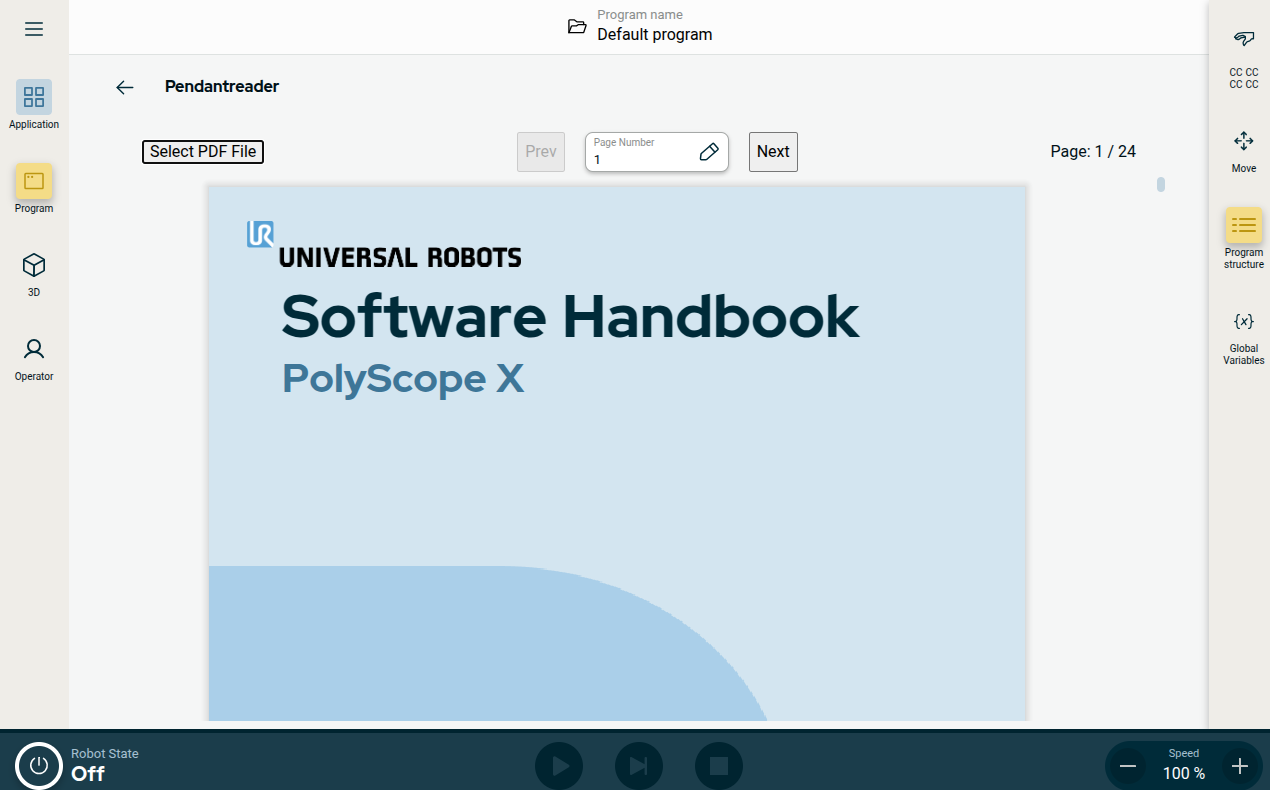
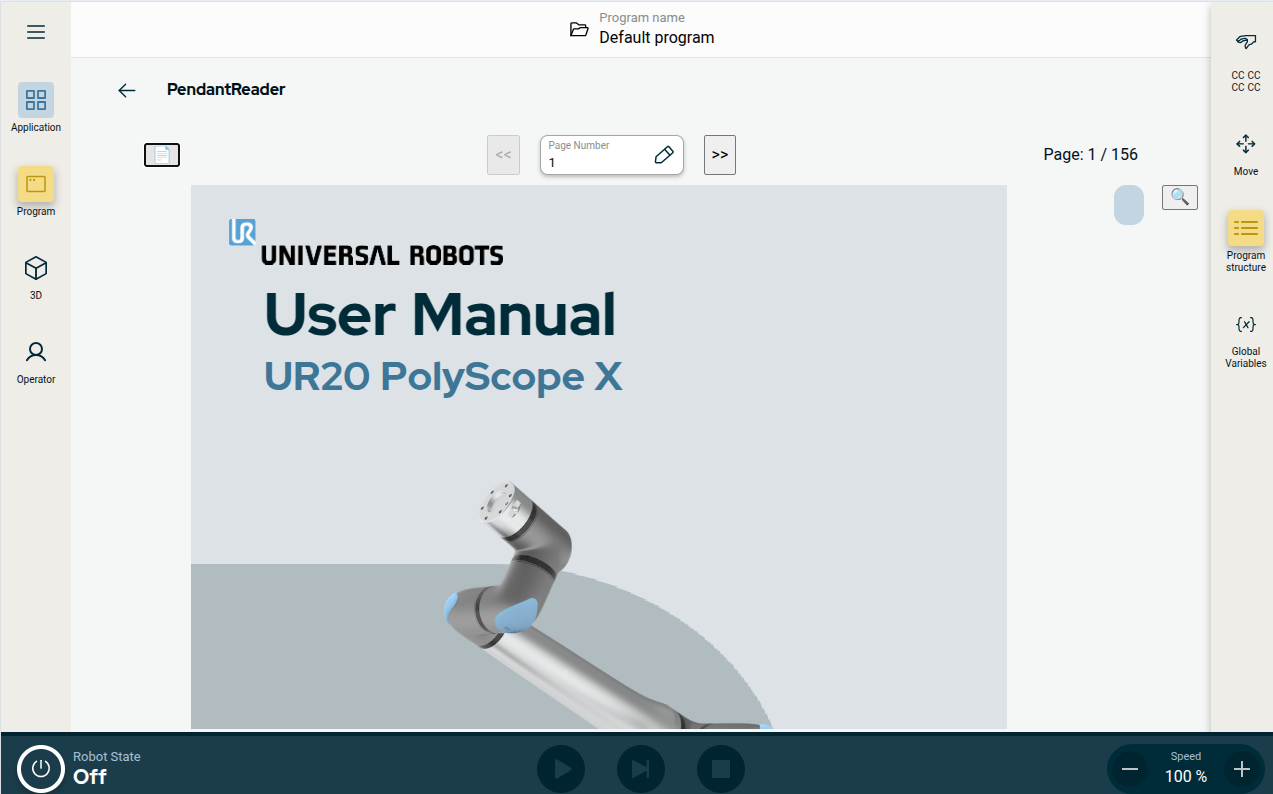
updates readme photo and features

diff --git a/README.md b/README.md
@@ -18,6 +18,11 @@ For further details, please see PolyScope X Open Beta. (https://forum.universal-
 Currently it can be needed to "double tap" to scroll through the pdf.
 You can "double tap" on the PDF itself and swipe, but also on the scrollbar thumb followed by a drag.
 
+## Features
+- File selections.
+- Word Search with highlighting.
+- Varius way to transverse the PDF including Scrolling, page turning, and go to a page number.
+
 ## Looks great, I want to use it (Installation the easy way)
 
 Go to the "[Releases](https://github.com/DasGruene/pend-read/releases)", here on GitHub and download the latest URCap.
